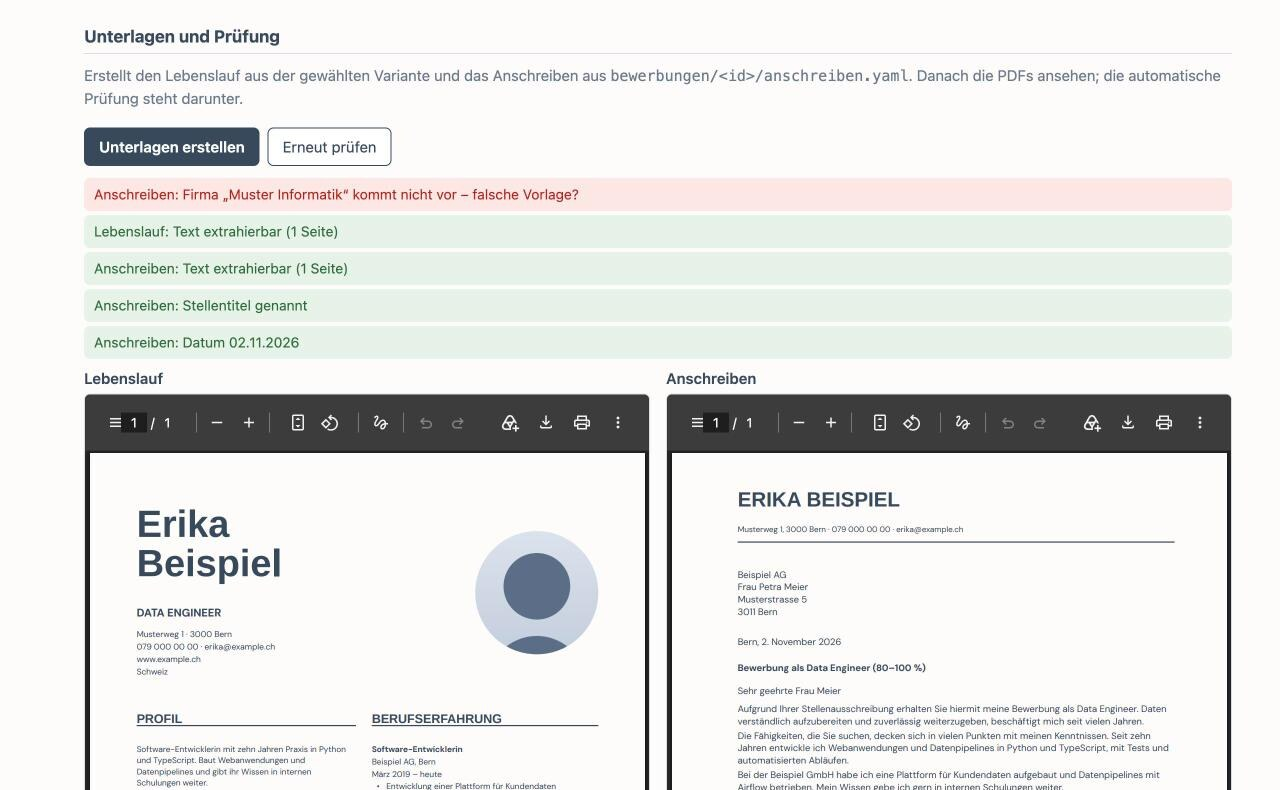
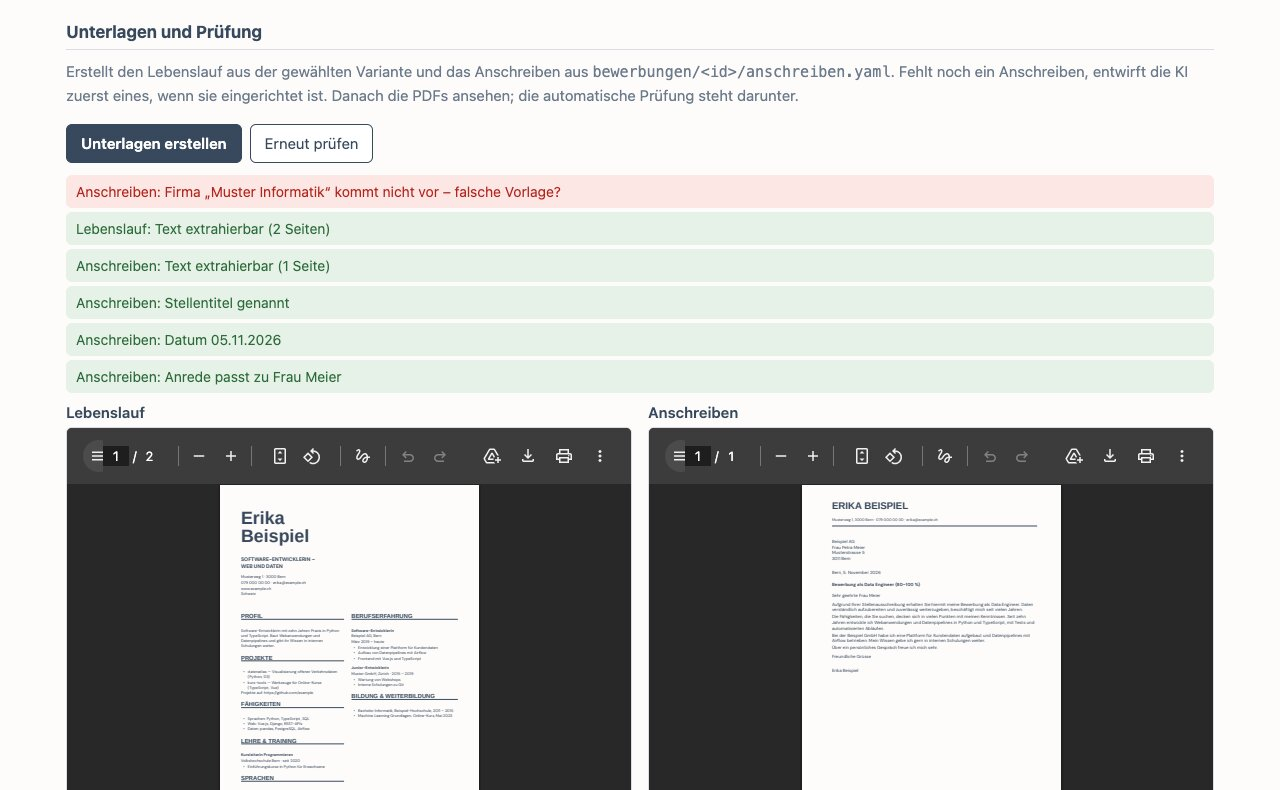
fix: take a grade over at once, ask only when a letter would be replaced, draft a missing letter (MIN-389)
"Note übernehmen" only set the field far up the page, so nothing seemed to happen until the form was saved. It saves
now and leaves other input alone, the same for "Übernehmen" of a variant. The card shows the grade on record beside the
new one, because the same ad can get another grade from the AI. "Anschreiben entwerfen" asks only when there is a letter
to replace, and "Unterlagen erstellen" drafts a missing letter first; without an AI or an ad it builds the rest and
says why.

Claude-Session: https://claude.ai/code/session_01WgFHS5MLF7RQbuiBw169Uz

diff --git a/bewerbungen/seiten/bewerbung.js b/bewerbungen/seiten/bewerbung.js
@@ -1,7 +1,7 @@
 "use strict";
 (() => {
   const { holen, senden, el, status, datum, url, bestaetigen, beobachten } = window.App;
-  const { geaenderteFelder } = window.FormularLogik;
+  const { fehltAnschreiben, geaenderteFelder } = window.FormularLogik;
   const $ = id => document.getElementById(id);
   const ID = new URLSearchParams(location.search).get("id");
   const FELDER = ["firma", "stelle", "firma_schluessel", "ort", "pensum", "vermittler", "portal", "link", "formular_link",
@@ -12,10 +12,11 @@
     ["art", "Art der Bewerbung"], ["ergebnis", "Ergebnis"], ["rav_zuweisung", "Zuweisung des RAV"]];
   const ANDERSWO_GEAENDERT = "Diese Bewerbung wurde inzwischen auch anderswo geändert. Ihre Eingaben bleiben stehen, und gespeichert werden nur die Felder, die Sie geändert haben.";
   const FORM_FILES = { lebenslauf: "Lebenslauf", anschreiben: "Anschreiben", zertifikate: "Zertifikate", unterlagen: "Unterlagen (gemeinsames PDF)", nachweise: "Nachweise (gemeinsames PDF)" };
-  const KEIN_ANSCHREIBEN = "Noch kein Anschreiben. Einen Entwurf erstellt „Anschreiben entwerfen“ weiter unten oder Claude mit dem Skill „bewerbung“. Ein fertiges PDF lässt sich unter „Eigenes Anschreiben“ hochladen.";
+  const KEIN_ANSCHREIBEN = "Noch kein Anschreiben. „Unterlagen erstellen“ entwirft eines, wenn die KI eingerichtet ist; sonst Claude mit dem Skill „bewerbung“. Ein fertiges PDF lässt sich unter „Eigenes Anschreiben“ hochladen.";
   let bewerbung = null;
   let geladenerText = "";
   let pdfStand = "";
+  let geladen = null;
 
   const meldung = (text, art) => status($("status"), text, art);
   const meldungOben = (text, art) => status($("status-oben"), text, art);
@@ -221,6 +222,29 @@
     }
   }
 
+  async function waehleVariante(variante) {
+    try {
+      bewerbung = await senden("/api/bewerbung", { id: bewerbung.id, variante });
+      $("f-variante").value = variante;
+      meldungOben(`Variante ${variante} gespeichert`, "ok");
+    } catch (fehler) {
+      meldungOben("Speichern fehlgeschlagen: " + fehler.message, "fehler");
+    }
+  }
+
+  /** The note for the person when no letter could be drafted; the rest of the documents is still worth building. */
+  async function entwirfFehlendes() {
+    if (!geladen || !fehltAnschreiben(geladen)) return "";
+    meldungOben("Anschreiben wird entworfen … das kann bis zu einer Minute dauern.");
+    try {
+      const ergebnis = await senden("/api/ki/anschreiben", {}, { id: ID });
+      document.dispatchEvent(new CustomEvent("anschreiben-entworfen", { detail: ergebnis }));
+      return "";
+    } catch (fehler) {
+      return `Kein Anschreiben entworfen: ${fehler.message}`;
+    }
+  }
+
   $("zertifikate-speichern").addEventListener("click", speichereZertifikate);
   $("rav-umschalten").addEventListener("click", schalteRav);
   $("speichern").addEventListener("click", () => speichere(formularWerte(), "Angaben gespeichert"));
@@ -239,27 +263,37 @@
         el("strong", {}, `${v.id}`), v.beschreibung ? ` – ${v.beschreibung}` : "",
         el("div", {}, `Passt: ${v.treffer.join(", ")}`),
         v.fehlt.length ? el("div", { class: "leise" }, `Fehlt in dieser Variante: ${v.fehlt.join(", ")}`) : null,
-        el("button", { type: "button", onclick: () => { $("f-variante").value = v.id; meldungOben(`Variante ${v.id} gewählt – „Angaben speichern“ nicht vergessen`, "hinweis"); } }, "Übernehmen")))
+        el("button", { type: "button", onclick: () => waehleVariante(v.id) }, "Übernehmen")))
         : [el("p", { class: "leer" }, "Keine passende Variante gefunden – neue Variante anlegen (Skill „bewerbung“).")]));
     } catch (fehler) {
       meldungOben(fehler.message, "fehler");
     }
   });
   $("erstellen").addEventListener("click", async () => {
-    meldungOben("Unterlagen werden erstellt …");
+    $("erstellen").disabled = true; // a second click would pay for a second draft
     try {
+      const offen = await entwirfFehlendes();
+      meldungOben("Unterlagen werden erstellt …");
       await senden("/api/unterlagen", {}, { id: ID });
-      meldungOben("Unterlagen erstellt", "ok");
-      zeigePdfs({ lebenslauf: true, anschreiben: true });
-      await laden();
+      await laden(); // says itself when a letter is missing, so the result comes after it
+      meldungOben(offen ? `Unterlagen erstellt. ${offen}` : "Unterlagen erstellt", offen ? "hinweis" : "ok");
     } catch (fehler) {
       meldungOben("Erstellen fehlgeschlagen: " + fehler.message, "fehler");
+    } finally {
+      $("erstellen").disabled = false;
     }
   });
   $("pruefen").addEventListener("click", pruefen);
   document.addEventListener("anschreiben-geaendert", laden);
   document.addEventListener("eigenes-anschreiben-geaendert", nachsehen);
-  document.addEventListener("bewerbung-geladen", event => zeigeFormularFassung(event.detail));
+  document.addEventListener("bewerbung-geladen", event => {
+    geladen = event.detail;
+    zeigeFormularFassung(event.detail);
+  });
+  document.addEventListener("bewerbung-gespeichert", event => {
+    bewerbung = event.detail;
+    $("f-passung").value = bewerbung.passung ?? "";
+  });
   $("v-datum").value = new Date().toISOString().slice(0, 10);
   bestaetigen($("versenden"), "Wirklich erfassen? Nochmals klicken", async () => {
     try {

diff --git a/bewerbungen/seiten/ki.js b/bewerbungen/seiten/ki.js
@@ -3,11 +3,15 @@
 // this page only shows the answers, as text.
 (() => {
   const { holen, senden, el, status, bestaetigen } = window.App;
+  const { notenHinweis } = window.FormularLogik;
   const $ = id => document.getElementById(id);
   const ID = new URLSearchParams(location.search).get("id");
   const KNOEPFE = ["ki-bewerten", "ki-entwerfen", "ki-pruefen"];
   const STATUS_TEXT = { abgedeckt: "abgedeckt", fehlt: "fehlt", "überdehnt": "überdehnt" };
   const STUFE = { abgedeckt: "ok", fehlt: "hinweis", "überdehnt": "fehler" };
+  const NACH_ENTWURF = "Jetzt „Unterlagen erstellen“ und das PDF lesen.";
+  const NACH_ERSTELLEN = "Das PDF steht unten; bitte lesen.";
+  let briefDa = true; // until the page has loaded, better ask once too often
 
   const meldung = (text, art) => status($("ki-meldung"), text, art);
   const kosten = usd => (usd === null || usd === undefined) ? "Kosten unbekannt" : `ca. ${usd.toFixed(2)} USD`;
@@ -28,21 +32,35 @@
     return el("p", { class: "leise" }, `Modell ${ergebnis.model} · ${kosten(ergebnis.cost_usd)}`);
   }
 
+  async function uebernimmNote(knopf, note) {
+    knopf.disabled = true;
+    try {
+      const gespeichert = await senden("/api/bewerbung", { id: ID, passung: note });
+      document.dispatchEvent(new CustomEvent("bewerbung-gespeichert", { detail: gespeichert }));
+      knopf.textContent = "Note übernommen";
+      meldung(`Note ${note} gespeichert`, "ok");
+    } catch (fehler) {
+      knopf.disabled = false;
+      meldung("Speichern fehlgeschlagen: " + fehler.message, "fehler");
+    }
+  }
+
   function zeigeBewertung(e) {
-    const uebernehmen = el("button", { type: "button", onclick: () => {
-      $("f-passung").value = e.grade;
-      meldung(`Note ${e.grade} eingesetzt – „Angaben speichern“ nicht vergessen`, "hinweis");
-    } }, "Note übernehmen");
-    return el("div", { class: "karte" }, el("strong", {}, `Passung: Note ${e.grade}`), el("p", {}, e.summary),
+    const bisher = $("f-passung").value;
+    const hinweis = notenHinweis(bisher, e.grade);
+    const uebernehmen = el("button", { type: "button", disabled: Number(bisher) === e.grade,
+      onclick: event => uebernimmNote(event.currentTarget, e.grade) }, "Note übernehmen");
+    return el("div", { class: "karte" }, el("strong", {}, `Passung: Note ${e.grade}`),
+      hinweis ? el("p", { class: "leise" }, hinweis) : null, el("p", {}, e.summary),
       liste("Passt", e.fits), liste("Haken", e.hooks),
       liste("Neue Lücken (erst nach Bestätigung in die Bausteine)", e.new_gaps),
       verdaechtig(e.suspicious_lines), el("div", { class: "knoepfe" }, uebernehmen), fuss(e));
   }
 
-  function zeigeEntwurf(e) {
+  function zeigeEntwurf(e, weiter = NACH_ENTWURF) {
     const belege = (e.claims || []).map(c => `${c.claim} – Beleg: ${c.evidence}`);
     return el("div", { class: "karte" }, el("strong", {}, "Anschreiben entworfen"),
-      el("p", {}, "Gespeichert als anschreiben.yaml (der alte Stand liegt unter „Entwürfe“). Jetzt „Unterlagen erstellen“ und das PDF lesen."),
+      el("p", {}, `Gespeichert als anschreiben.yaml (ein früherer Stand liegt unter „Entwürfe“). ${weiter}`),
       liste("Aussagen und Belege", belege), liste("Offen benannte Lücken", e.gaps_named),
       verdaechtig(e.suspicious_lines), fuss(e));
   }
@@ -112,11 +130,15 @@
   if (!ID) return;
   $("ki-einloesen").addEventListener("click", einloesen);
   $("ki-bewerten").addEventListener("click", () => ausfuehren("/api/ki/bewerten", "Passung wird bewertet", zeigeBewertung));
-  bestaetigen($("ki-entwerfen"), "Ersetzt anschreiben.yaml – nochmals klicken", async () => {
-    if (await ausfuehren("/api/ki/anschreiben", "Anschreiben wird entworfen", zeigeEntwurf)) {
+  document.addEventListener("bewerbung-geladen", event => { briefDa = event.detail.hat_anschreiben; });
+  document.addEventListener("anschreiben-entworfen", event => {
+    $("ki-ergebnis").replaceChildren(zeigeEntwurf(event.detail, NACH_ERSTELLEN));
+  });
+  bestaetigen($("ki-entwerfen"), "Vorhandenes Anschreiben ersetzen? Nochmals klicken", async () => {
+    if (await ausfuehren("/api/ki/anschreiben", "Anschreiben wird entworfen", e => zeigeEntwurf(e))) {
       document.dispatchEvent(new CustomEvent("anschreiben-geaendert"));
     }
-  });
+  }, () => briefDa);
   $("ki-pruefen").addEventListener("click", () => ausfuehren("/api/ki/pruefen", "Inhalt wird geprüft", zeigePruefung));
   ladeStatus();
 })();

diff --git a/bewerbungen/seiten/bewerbung.html b/bewerbungen/seiten/bewerbung.html
@@ -67,7 +67,7 @@
   <div id="ki-ergebnis"></div>
 
   <h2>Unterlagen und Prüfung</h2>
-  <p class="hilfe">Erstellt den Lebenslauf aus der gewählten Variante und das Anschreiben aus <code>bewerbungen/&lt;id&gt;/anschreiben.yaml</code>. Danach die PDFs ansehen; die automatische Prüfung steht darunter.</p>
+  <p class="hilfe">Erstellt den Lebenslauf aus der gewählten Variante und das Anschreiben aus <code>bewerbungen/&lt;id&gt;/anschreiben.yaml</code>. Fehlt noch ein Anschreiben, entwirft die KI zuerst eines, wenn sie eingerichtet ist. Danach die PDFs ansehen; die automatische Prüfung steht darunter.</p>
   <p class="hilfe" id="eigener-cv" hidden>Als Lebenslauf gilt die Datei aus <a href="/dateien">„Meine Dateien“</a>, so wie sie ist. Dafür braucht es „Unterlagen erstellen“ nicht. Eine gewählte Variante geht vor.</p>
   <p class="hilfe" id="eigener-brief" hidden>Als Anschreiben gilt das hochgeladene PDF, so wie es ist. Ein Entwurf gilt erst wieder, wenn es entfernt ist.</p>
   <div class="knoepfe"><button class="haupt" id="erstellen">Unterlagen erstellen</button><button id="pruefen">Erneut prüfen</button></div>

diff --git a/bewerbungen/seiten/formular-logik.js b/bewerbungen/seiten/formular-logik.js
@@ -9,7 +9,17 @@
     return Object.fromEntries(Object.entries(werte).filter(([feld, wert]) => alsText(wert) !== alsText(geladen[feld])));
   }
 
-  const logik = { geaenderteFelder };
+  /** Only with no letter at all: a draft, a built PDF or an own letter stay, and a sent application is done. */
+  const fehltAnschreiben = daten => !daten.hat_anschreiben && !daten.eigenes_anschreiben && !daten.bewerbung.versand;
+
+  /** The same ad can get another grade from the AI: the person sees both and decides. */
+  function notenHinweis(bisher, neu) {
+    if (alsText(bisher) === "") return "";
+    if (Number(bisher) === neu) return "Das ist auch die eingetragene Note.";
+    return `Bisher eingetragen: Note ${bisher}. Eine KI-Note ist eine Einschätzung und kann von Lauf zu Lauf abweichen. Die eingetragene Note ändert sich erst mit „Note übernehmen“.`;
+  }
+
+  const logik = { fehltAnschreiben, geaenderteFelder, notenHinweis };
   if (typeof module !== "undefined") module.exports = logik;
   else global.FormularLogik = logik;
 })(typeof window !== "undefined" ? window : globalThis);

diff --git a/bewerbungen/seiten/app.js b/bewerbungen/seiten/app.js
@@ -114,10 +114,15 @@ window.App = (() => {
   }
 
   // Zweistufiger Knopf statt confirm(): erster Klick fragt nach, zweiter führt aus
-  function bestaetigen(knopf, frage, aktion) {
+  /** `noetig` says whether there is anything to confirm right now. */
+  function bestaetigen(knopf, frage, aktion, noetig = () => true) {
     const text = knopf.textContent;
     let bereit = false;
     knopf.addEventListener("click", async () => {
+      if (!noetig()) {
+        await aktion();
+        return;
+      }
       if (!bereit) {
         bereit = true;
         knopf.textContent = frage;

diff --git a/docs/installation.md b/docs/installation.md
@@ -70,7 +70,7 @@ Die Erweiterung steht dann in der Liste, und in der App erscheint von selbst „
 1. **Meine Angaben** (im Menü): Wählen Sie die Stellensuche und erfassen Sie Lebenslauf und Suchprofil. Vorhandene Unterlagen als PDF oder Word können Sie hochladen. Die KI macht daraus Vorschläge, und Sie prüfen jeden davon. Zum Schluss klicken Sie auf **Übernehmen**. Erst danach zählen Ihre Angaben für die Suche.
 2. **Suche**: Klicken Sie auf **Stellen suchen**. Die Erweiterung sucht auf den Portalen, in Ihrem Browser und nur, wenn Sie die Suche starten. Ohne gewählte Kantone sucht sie in der ganzen Schweiz; Stellen nahe Ihrem Wohnort stehen dann zuerst. Unter **Wo suchen Sie?** wählen Sie die Portale. Passen Ihre Begriffe nicht zur Informatik, ist ictjobs zu Beginn ausgeschaltet. Pro Portal holt ein Lauf höchstens 150 neue Inserate, der Rest kommt bei der nächsten Suche.
 3. **Bewerten** lässt die KI einschätzen, wie gut eine Stelle zu Ihnen passt. **Übernehmen** legt eine Bewerbung an, **Verwerfen** blendet den Treffer aus.
-4. **Bewerben**: Öffnen Sie unter **Bewerbungen** eine Firma und klicken Sie auf **Unterlagen erstellen**. Erst dann lässt sie sich in der Übersicht ankreuzen; was noch fehlt, steht dort bei der Firma. **Bewerben** öffnet das Formular und füllt es aus. Haben Sie schon einen fertigen Lebenslauf, entfällt das Erstellen (siehe unten).
+4. **Bewerben**: Öffnen Sie unter **Bewerbungen** eine Firma und klicken Sie auf **Unterlagen erstellen**. Fehlt noch ein Anschreiben, entwirft die KI dabei zuerst eines; das kann bis zu einer Minute dauern. Erst dann lässt sie sich in der Übersicht ankreuzen; was noch fehlt, steht dort bei der Firma. **Bewerben** öffnet das Formular und füllt es aus. Haben Sie schon einen fertigen Lebenslauf, entfällt das Erstellen (siehe unten).
 
 Abgeschickt wird eine Bewerbung immer von Ihnen selbst.
 

diff --git a/bewerbungen/README.md b/bewerbungen/README.md
@@ -21,7 +21,7 @@ Die Oberfläche läuft nur auf `127.0.0.1` und öffnet sich im Browser:
 
 1. **Stelle wählen** – in der Übersicht oder per Skill `jobsuche`; Status „Bewerben“.
 2. **Lebenslauf** – bestehende Variante wiederverwenden oder neue erstellen (`varianten.yaml`, Tags zum Wiederfinden).
-3. **Anschreiben** – `bewerbungen/<id>/anschreiben.yaml`, Entwurf durch den Skill `bewerbung` aus Bausteinen und Stilprofil.
+3. **Anschreiben** – `bewerbungen/<id>/anschreiben.yaml`, Entwurf durch den Skill `bewerbung` aus Bausteinen und Stilprofil. Fehlt es, entwirft „Unterlagen erstellen“ zuerst eines, wenn eine KI eingerichtet ist.
 4. **Prüfung** – „Unterlagen erstellen“, PDFs ansehen; formale Prüfung automatisch, inhaltliche durch den Skill.
 5. **Versand** – von Hand abschicken, dann „Versand erfassen“: Fassung nach `versendet/` (jede nur einmal), Entwürfe als genutzt markiert, alles in Git eingefroren. Oder in der Übersicht ankreuzen und „Bewerben“: Die Erweiterung öffnet pro Bewerbung das Formular und füllt es aus, abgeschickt wird durch die Person (siehe `../erweiterung/README.md`); „Abgeschickt? Ja“ im Balken erfasst den Versand.
 6. **Bewerbungsdaten** – Status, Gespräch, Absage nachtragen.
